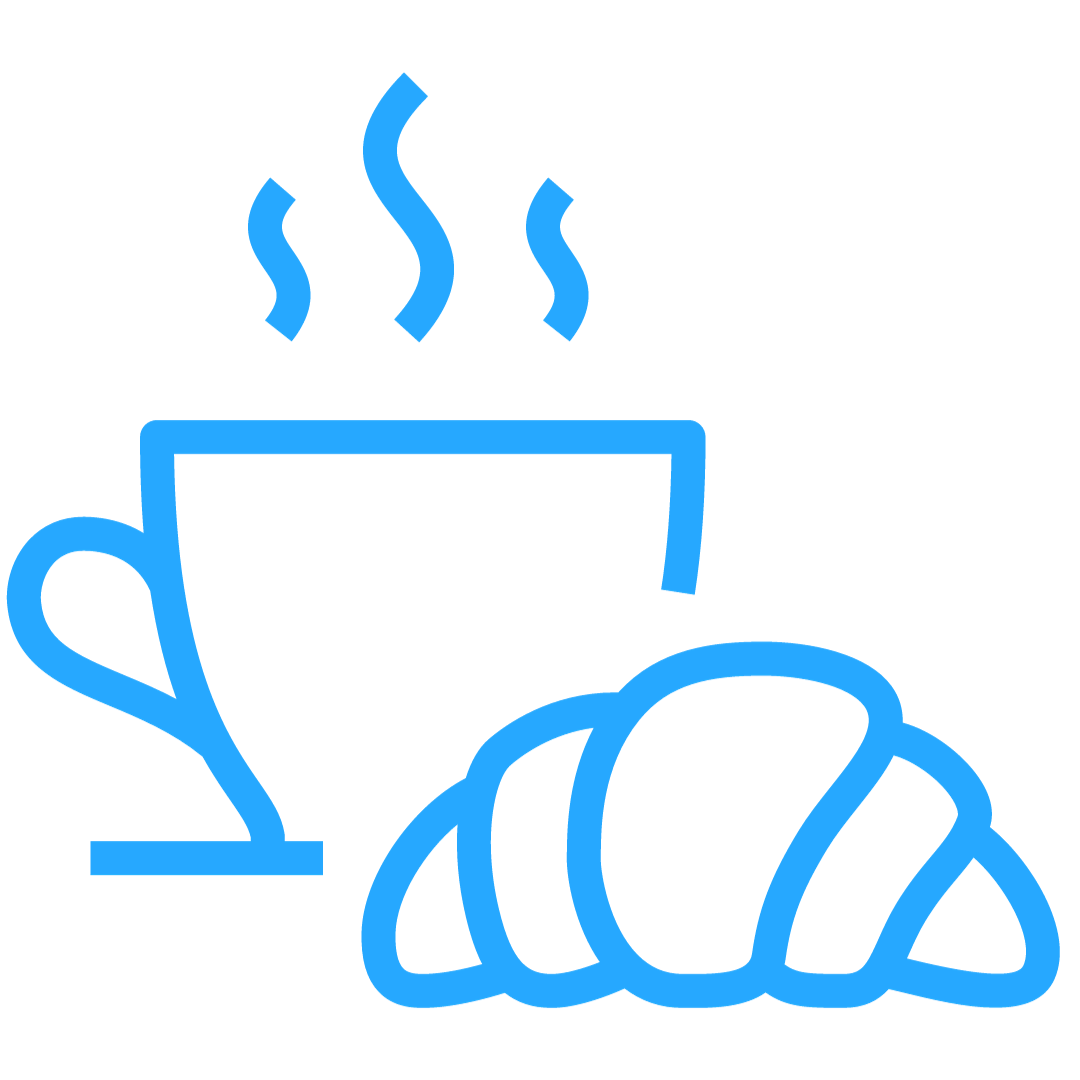
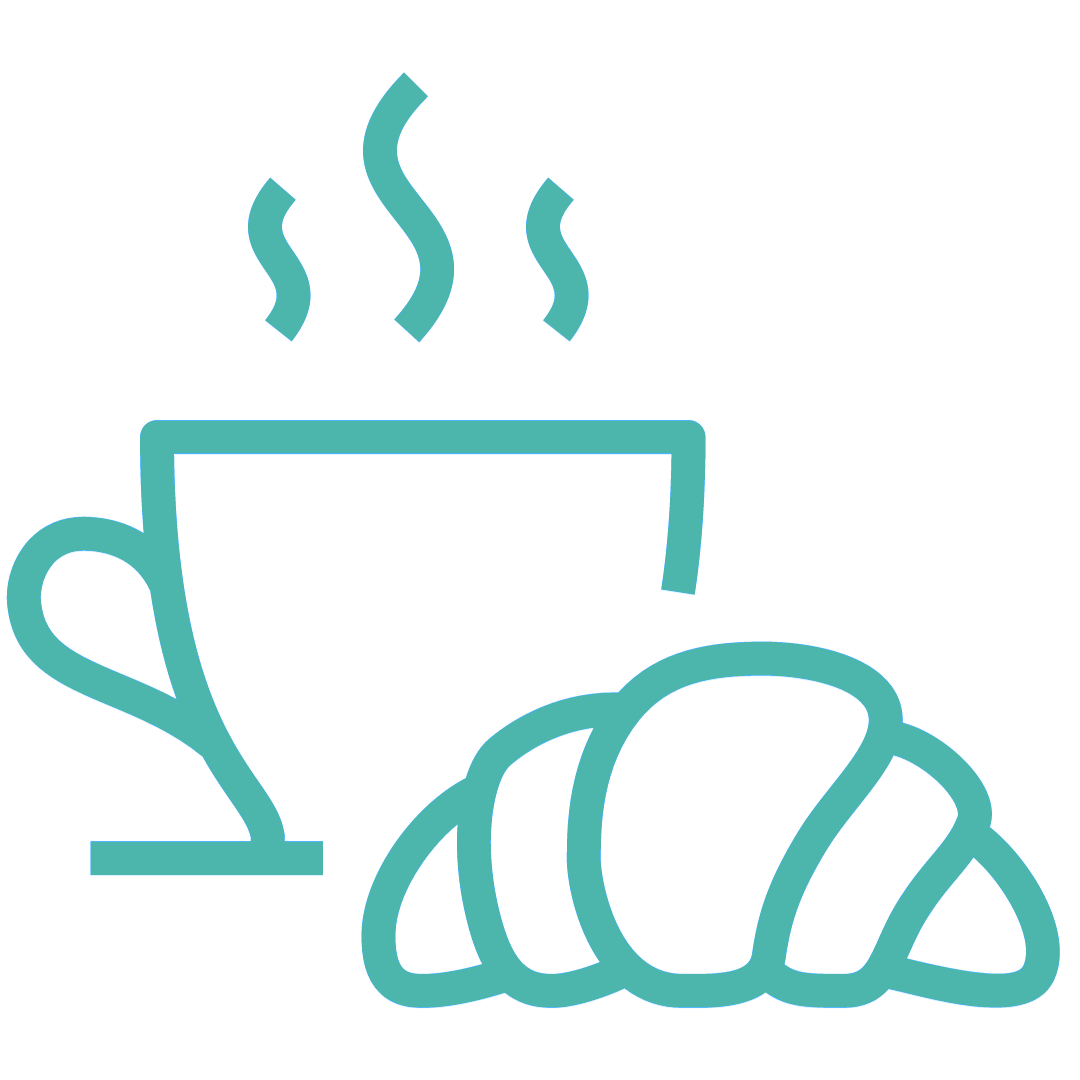
fix: update stats section color to match website theme (#41)
* fix: update stats section color to match website theme

* fix: update itinerary colors and icons to match website theme

diff --git a/src/components/sections/Schedule.jsx b/src/components/sections/Schedule.jsx
@@ -26,7 +26,7 @@ const Schedule = () => {
       <div className="row">
         <div className="col-md-12 col-lg-6">
           <h1 className='mil-h4' style={{
-            padding: "5px 0px", backgroundColor: "rgba(38, 167, 255, 1)", color: "white",
+            padding: "5px 0px", backgroundColor: "rgba(77, 182, 172, 1)", color: "white",
             display: "flex", justifyContent: "space-between", borderRadius: "30px", padding: "5px 5%"
           }}>
             <span>11th October 2025</span>
@@ -48,7 +48,7 @@ const Schedule = () => {
 
         <div className="col-md-12 col-lg-6">
           <h1 className='mil-h4' style={{
-            padding: "5px 0px", backgroundColor: "rgba(38, 167, 255, 1)", color: "white",
+            padding: "5px 0px", backgroundColor: "rgba(77, 182, 172, 1)", color: "white",
             display: "flex", justifyContent: "space-between", borderRadius: "30px", padding: "5px 5%"
           }}>
             <span>12th October 2025</span>

diff --git a/src/components/sections/Stats.jsx b/src/components/sections/Stats.jsx
@@ -145,7 +145,7 @@ const Stats = () => {
                                 style={{
                                     fontSize: "2.2rem",
                                     fontWeight: 800,
-                                    color: "rgba(38, 167, 255, 1)",
+                                    color: "rgba(77, 182, 172, 1)",
                                     lineHeight: 1,
                                 }}
                             >
